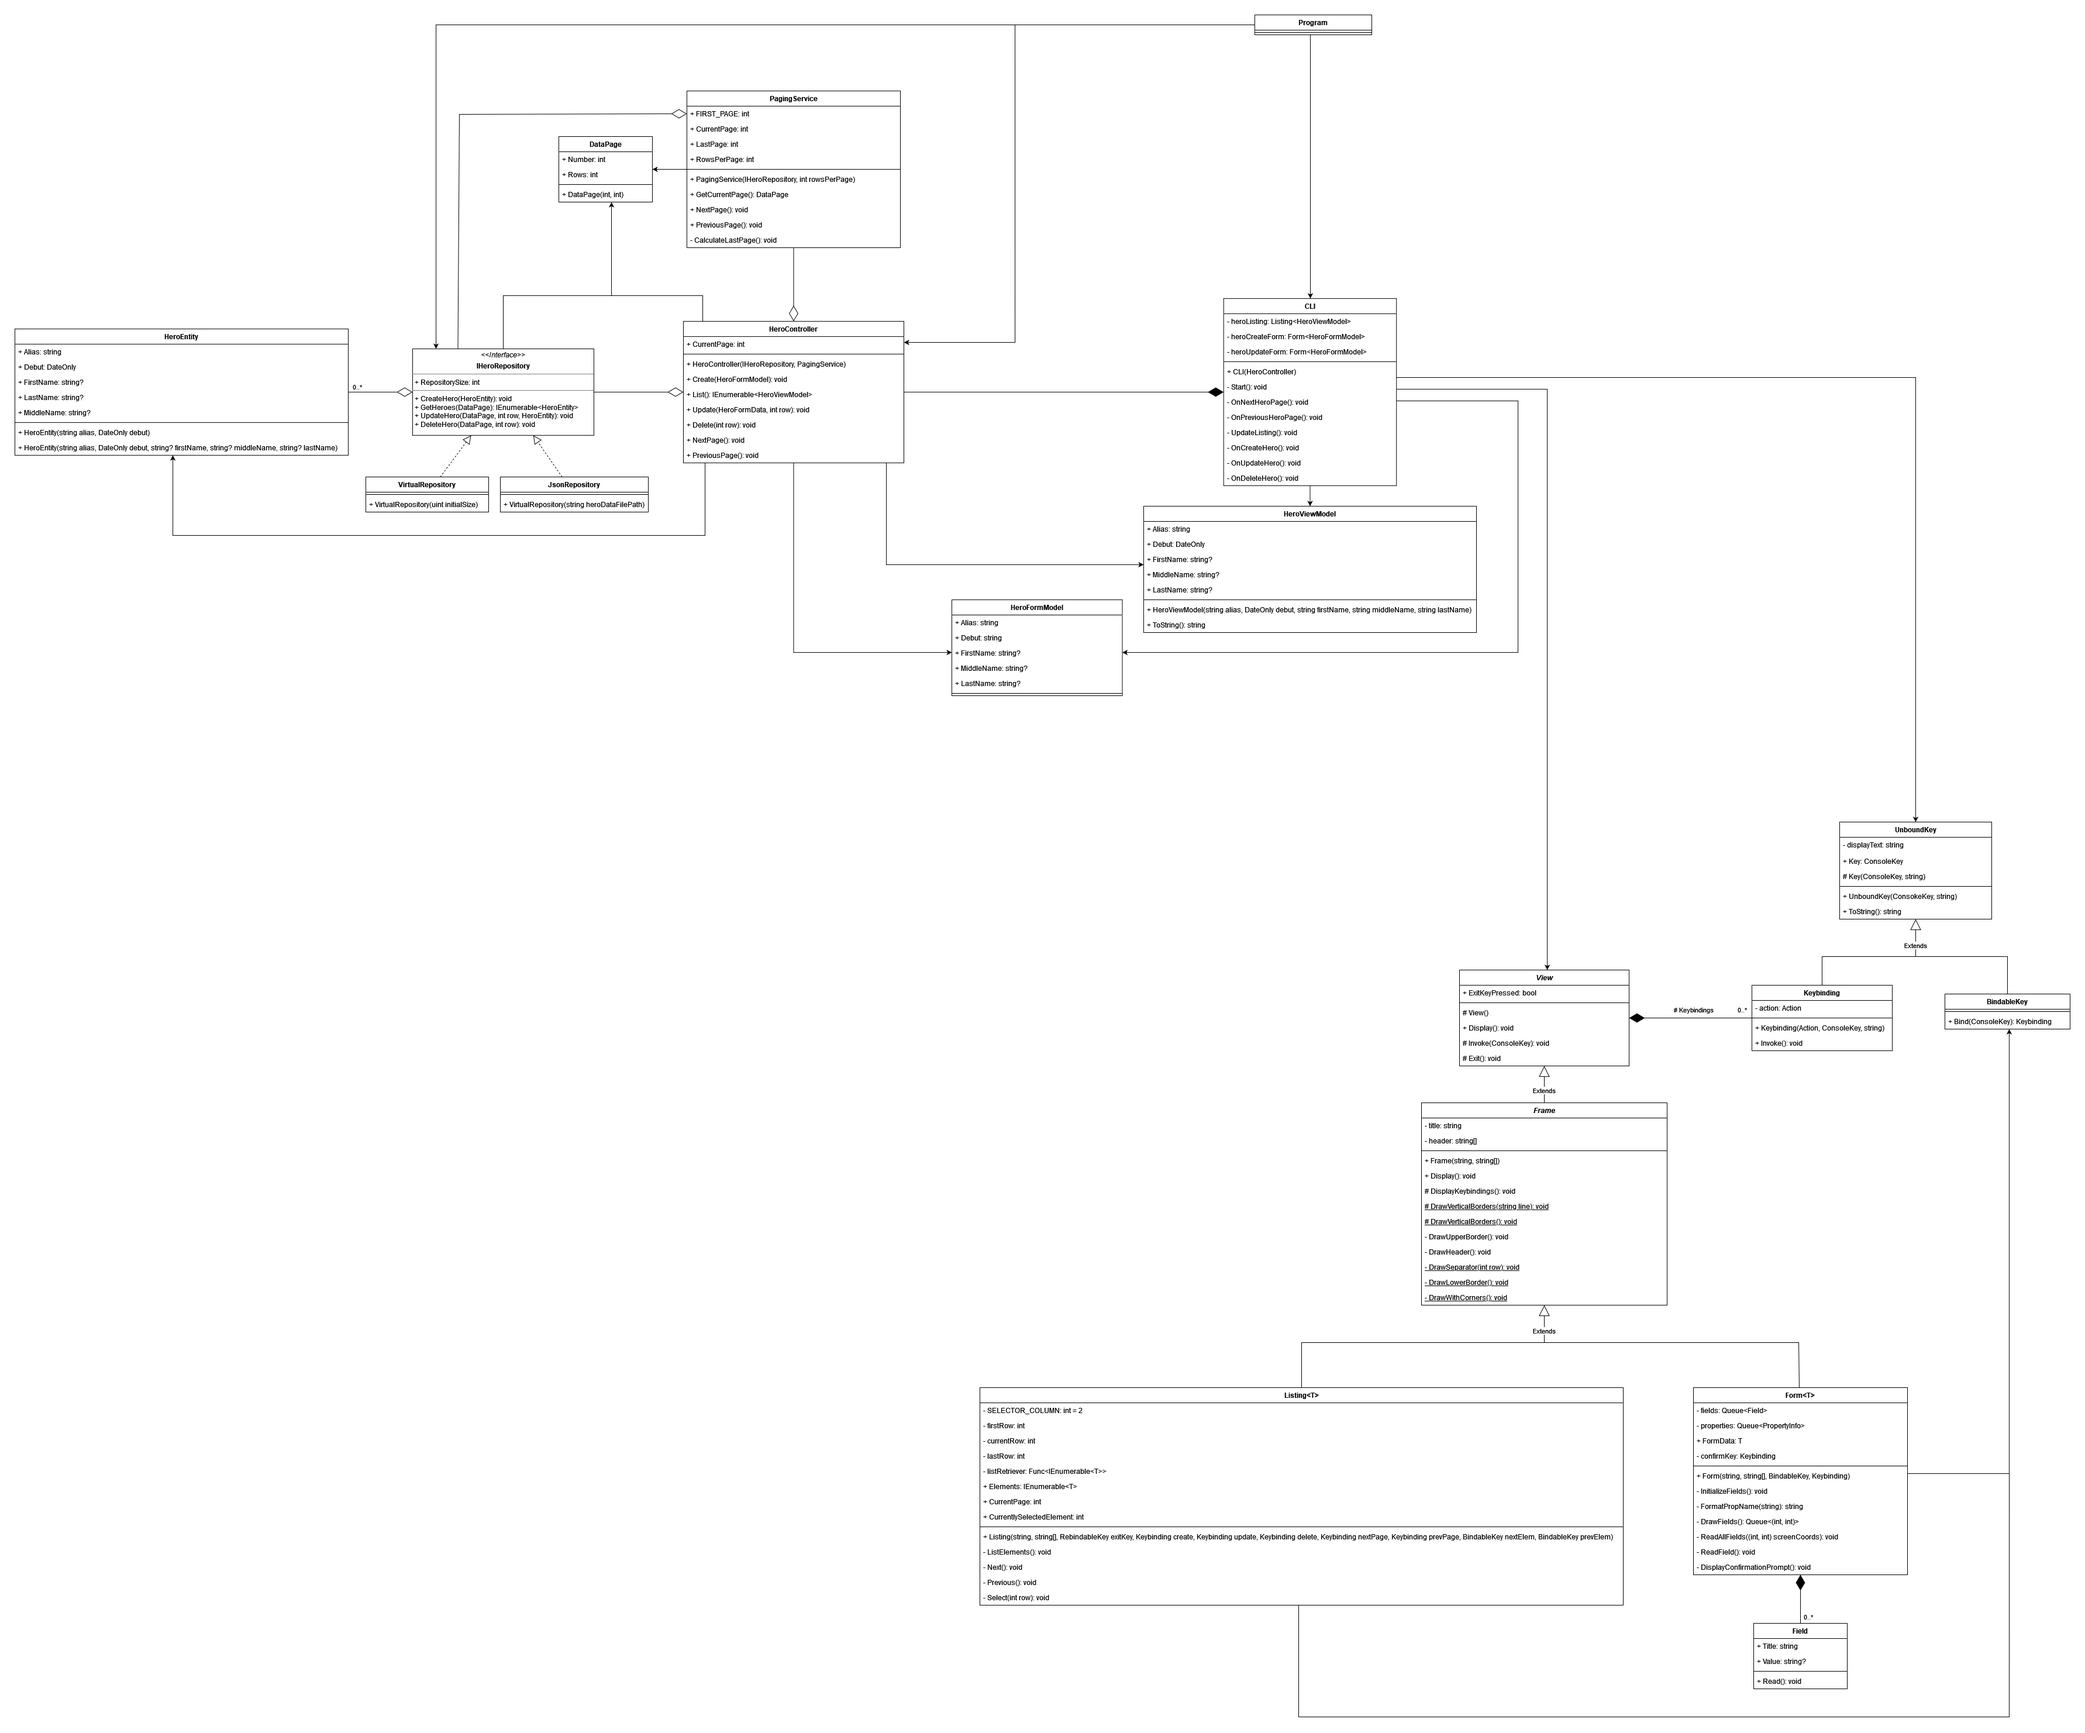
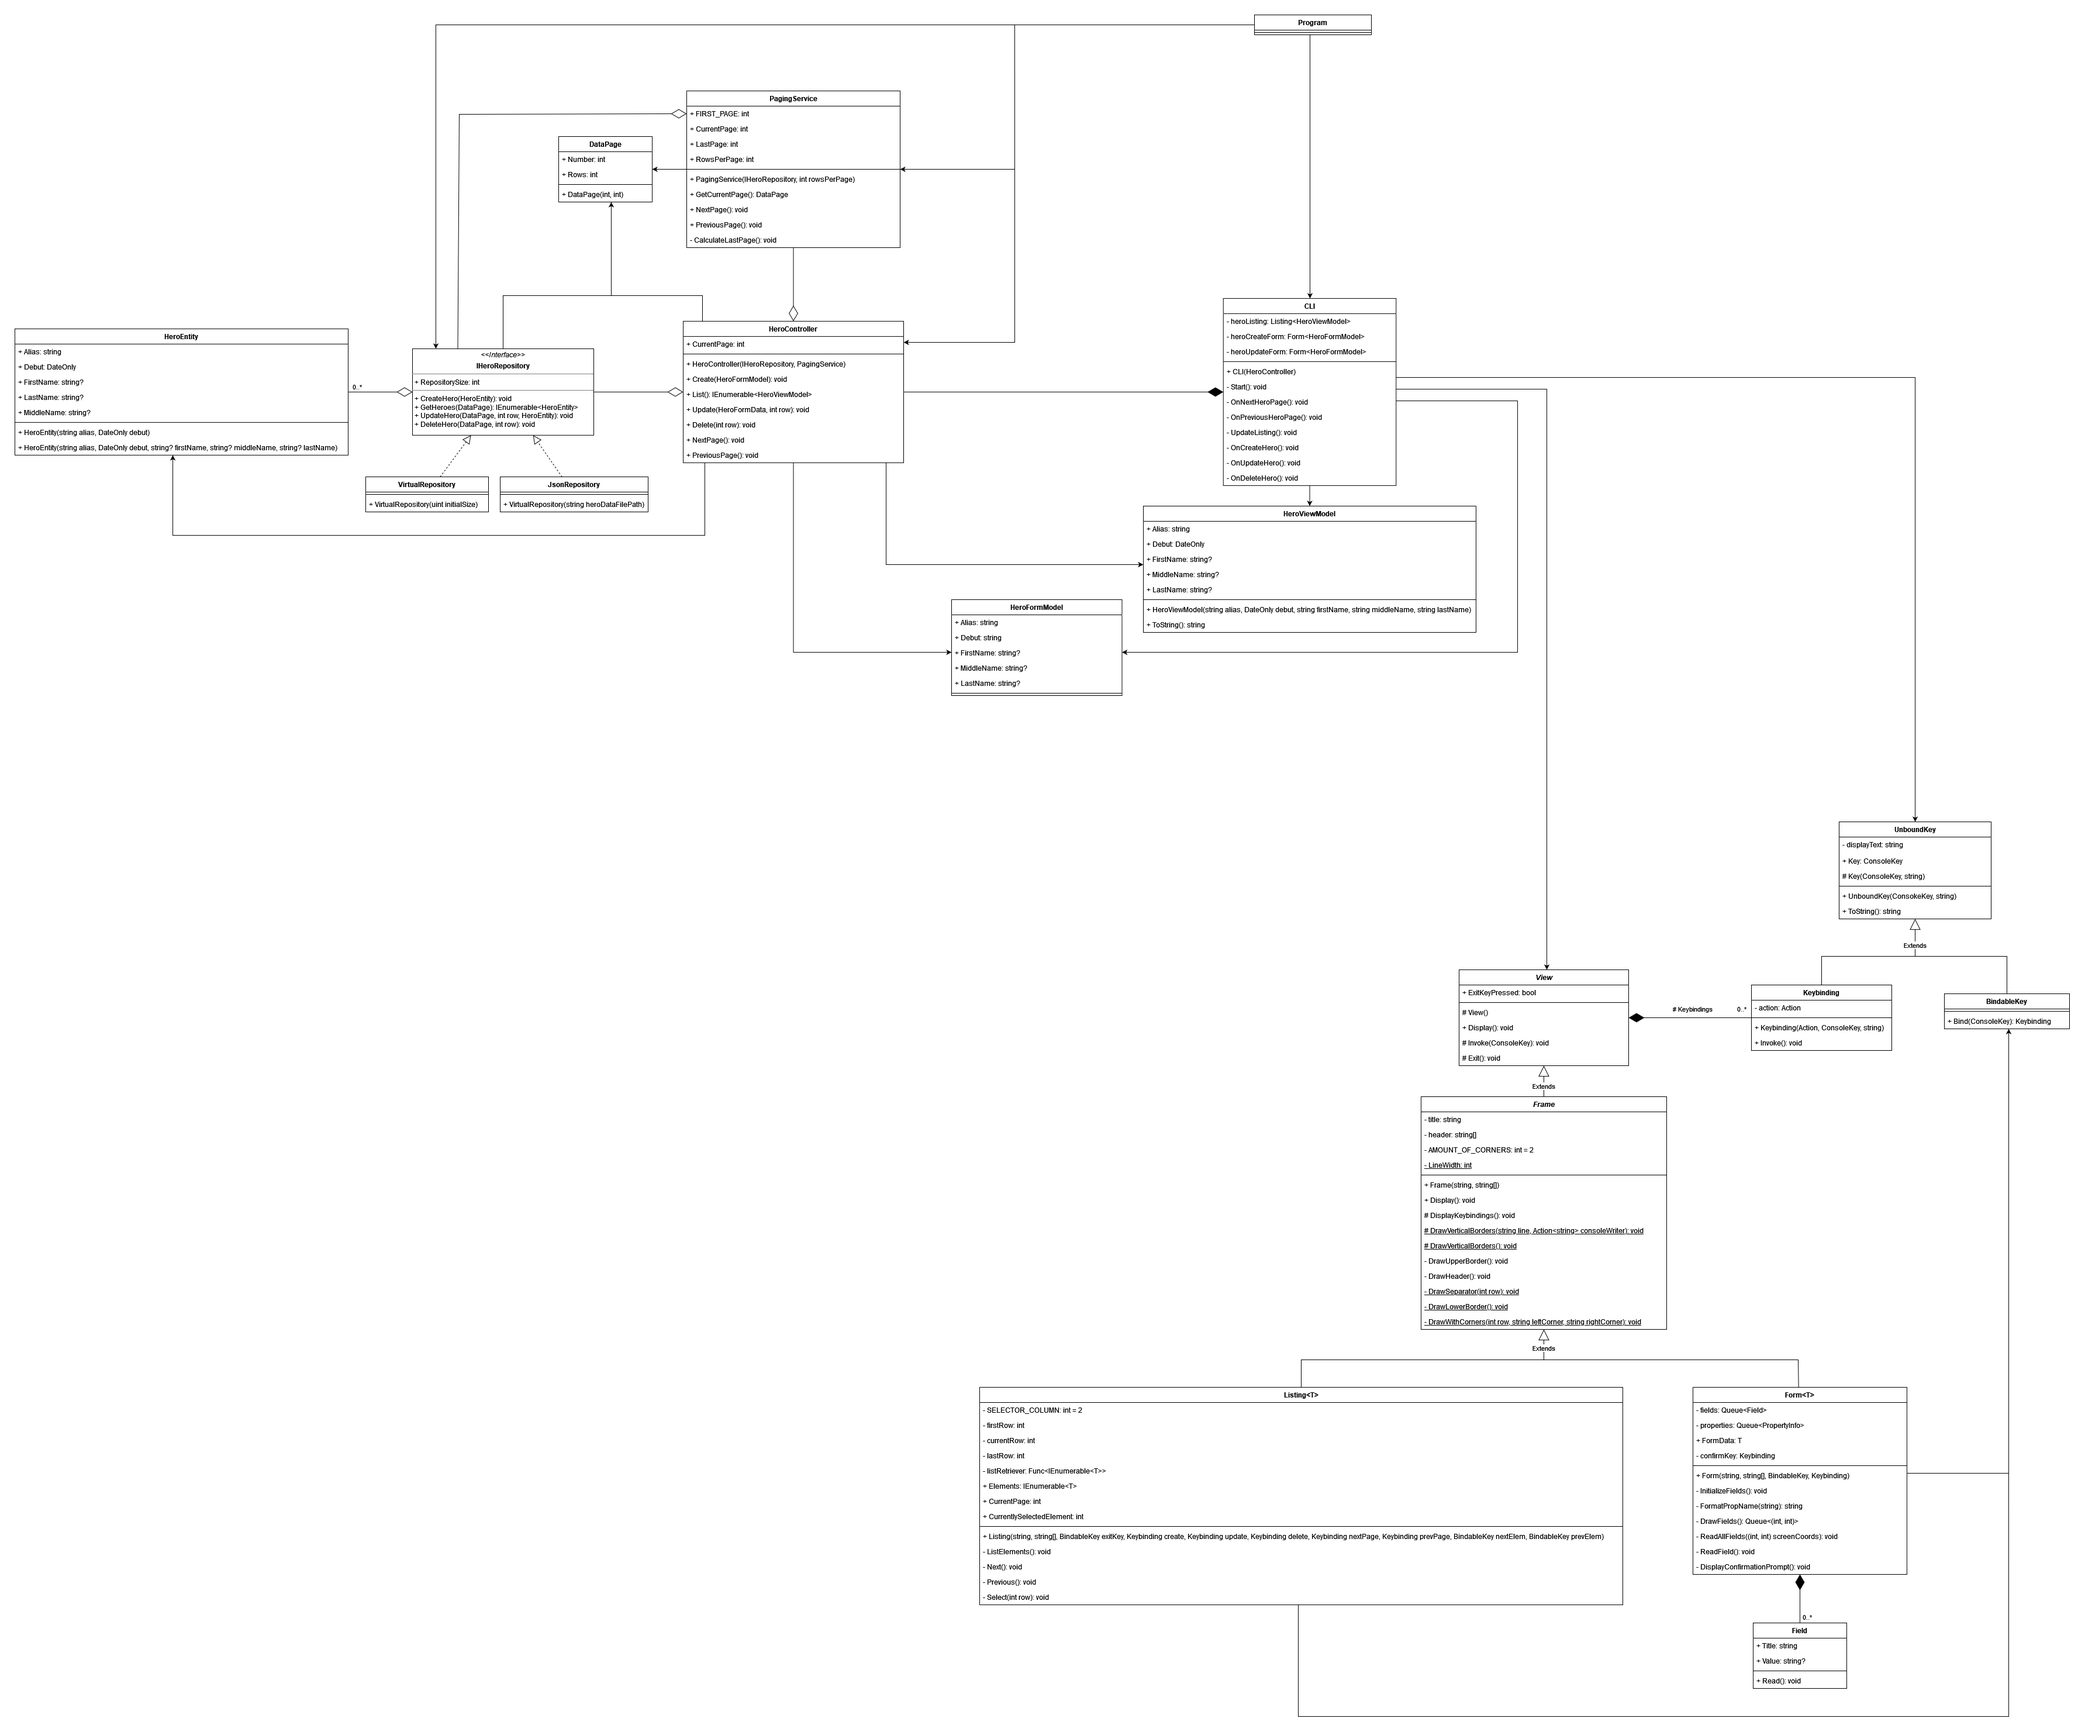
Simplifique o desenho de bordas

diff --git a/src/CrudDaJustica.Cli.Lib/Views/Frame.cs b/src/CrudDaJustica.Cli.Lib/Views/Frame.cs
@@ -13,6 +13,14 @@ public abstract class Frame : View
 	// Summary: Information to display on the upper console window.
 	private readonly string[] header;
 
+	// Summary: The amount of corners on each end of a horizontal line.
+	// Remarks: Used for drawing horizontal lines with corners.
+	private const int AMOUNT_OF_CORNERS = 2;
+
+	// Summary: The width of horizontal line taking the amount of corners into account.
+	private static int LineWidth => Console.BufferWidth - AMOUNT_OF_CORNERS;
+
+
 	protected Frame(string title, string[] header) : base()
 	{
 		this.title = title;
@@ -53,21 +61,17 @@ public abstract class Frame : View
 	//			Expects either Console.WriteLine or Console.Write as consoleWriter.
 	protected static void DrawVerticalBorders(string line, Action<string> consoleWriter)
 	{
-		var lineWithBorder = line
-			.PadLeft(line.Length + 1, '│')
-			.PadRight(Console.BufferWidth - 1)
-			.PadRight(Console.BufferWidth, '│');
-
-		consoleWriter.Invoke(lineWithBorder);
+		var lineWithBorders = string.Format("│{0}│", line.PadRight(LineWidth));
+		consoleWriter.Invoke(lineWithBorders);
 	}
 
-	// Summary: Draws vertical borders starting from this row down to the antipenultimate row of the console buffer.
+	// Summary: Draws vertical borders starting from this row down to the penultimate row of the console buffer.
 	protected static void DrawVerticalBorders()
 	{
 
 		int startingRow = Console.GetCursorPosition().Top;
-		int antipenultimateRow = Console.BufferHeight - 2;
-		foreach (var _ in Enumerable.Range(startingRow, antipenultimateRow - startingRow))
+		int penultimateRow = Console.BufferHeight - 2;
+		foreach (var _ in Enumerable.Range(startingRow, penultimateRow - startingRow))
 		{
 			DrawVerticalBorders(string.Empty, Console.WriteLine);
 		}
@@ -77,23 +81,16 @@ public abstract class Frame : View
 	//          Writes the title in the middle of the row.
 	private void DrawUpperBorder()
 	{
-		var titleLength = this.title.Length;
-		var title = this.title
-			.Trim()
-			.PadLeft(titleLength + 1)
-			.PadRight(titleLength + 2)
-			.PadLeft(titleLength + 3, '┤')
-			.PadRight(titleLength + 4, '├');
+		var title = string.Format("┤ {0} ├", this.title.Trim());
 
-		var leftpaddingSize = (Console.BufferWidth + title.Length) / 2;
-		var rightPaddingSize = Console.BufferWidth;
-		var upperBorder = title
-			.PadLeft(leftpaddingSize - 1, '─')
-			.PadLeft(leftpaddingSize, '┌')
-			.PadRight(rightPaddingSize - 1, '─')
-			.PadRight(rightPaddingSize, '┐');
+		var leftHalfWidth = (Console.BufferWidth + title.Length) / 2;
+		var rightHalfWidth = Console.BufferWidth;
 
-		Console.WriteLine(upperBorder);
+		var upperBorderWithoutCorners = title
+			.PadLeft(leftHalfWidth - AMOUNT_OF_CORNERS, '─')
+			.PadRight(rightHalfWidth - AMOUNT_OF_CORNERS, '─');
+
+		Console.WriteLine("┌{0}┐", upperBorderWithoutCorners);
 	}
 
 	// Summary: Draws each line in the header between vertical borders.
@@ -108,7 +105,7 @@ public abstract class Frame : View
 	// Summary: Draw a separator line in a given row of the console.
 	private static void DrawSeparator(int row)
 	{
-		DrawWithCorners(row, "├─", '┤');
+		DrawWithCorners(row, "├", '┤');
 	}
 
 	// Summary: Draws a line across the penultimate row of the console buffer, placing upward corners on each end.
@@ -116,15 +113,14 @@ public abstract class Frame : View
 	private static void DrawLowerBorder()
 	{
 		var penultimateRow = Console.BufferHeight - 2;
-		DrawWithCorners(penultimateRow, "└─", '┘');
+		DrawWithCorners(penultimateRow, "└", '┘');
 	}
 
 	// Summary: Draw a line across a given row of the console buffer, placing corners on each end.
 	private static void DrawWithCorners(int row, string leftCorner, char rightCorner)
 	{
-		var separator = leftCorner
-			.PadRight(Console.BufferWidth - 1, '─')
-			.PadRight(Console.BufferWidth, rightCorner);
+		var line = string.Empty.PadRight(LineWidth, '─');
+		var separator = string.Format("{0}{1}{2}", leftCorner, line, rightCorner);
 
 		Console.SetCursorPosition(0, row);
 		Console.WriteLine(separator);
